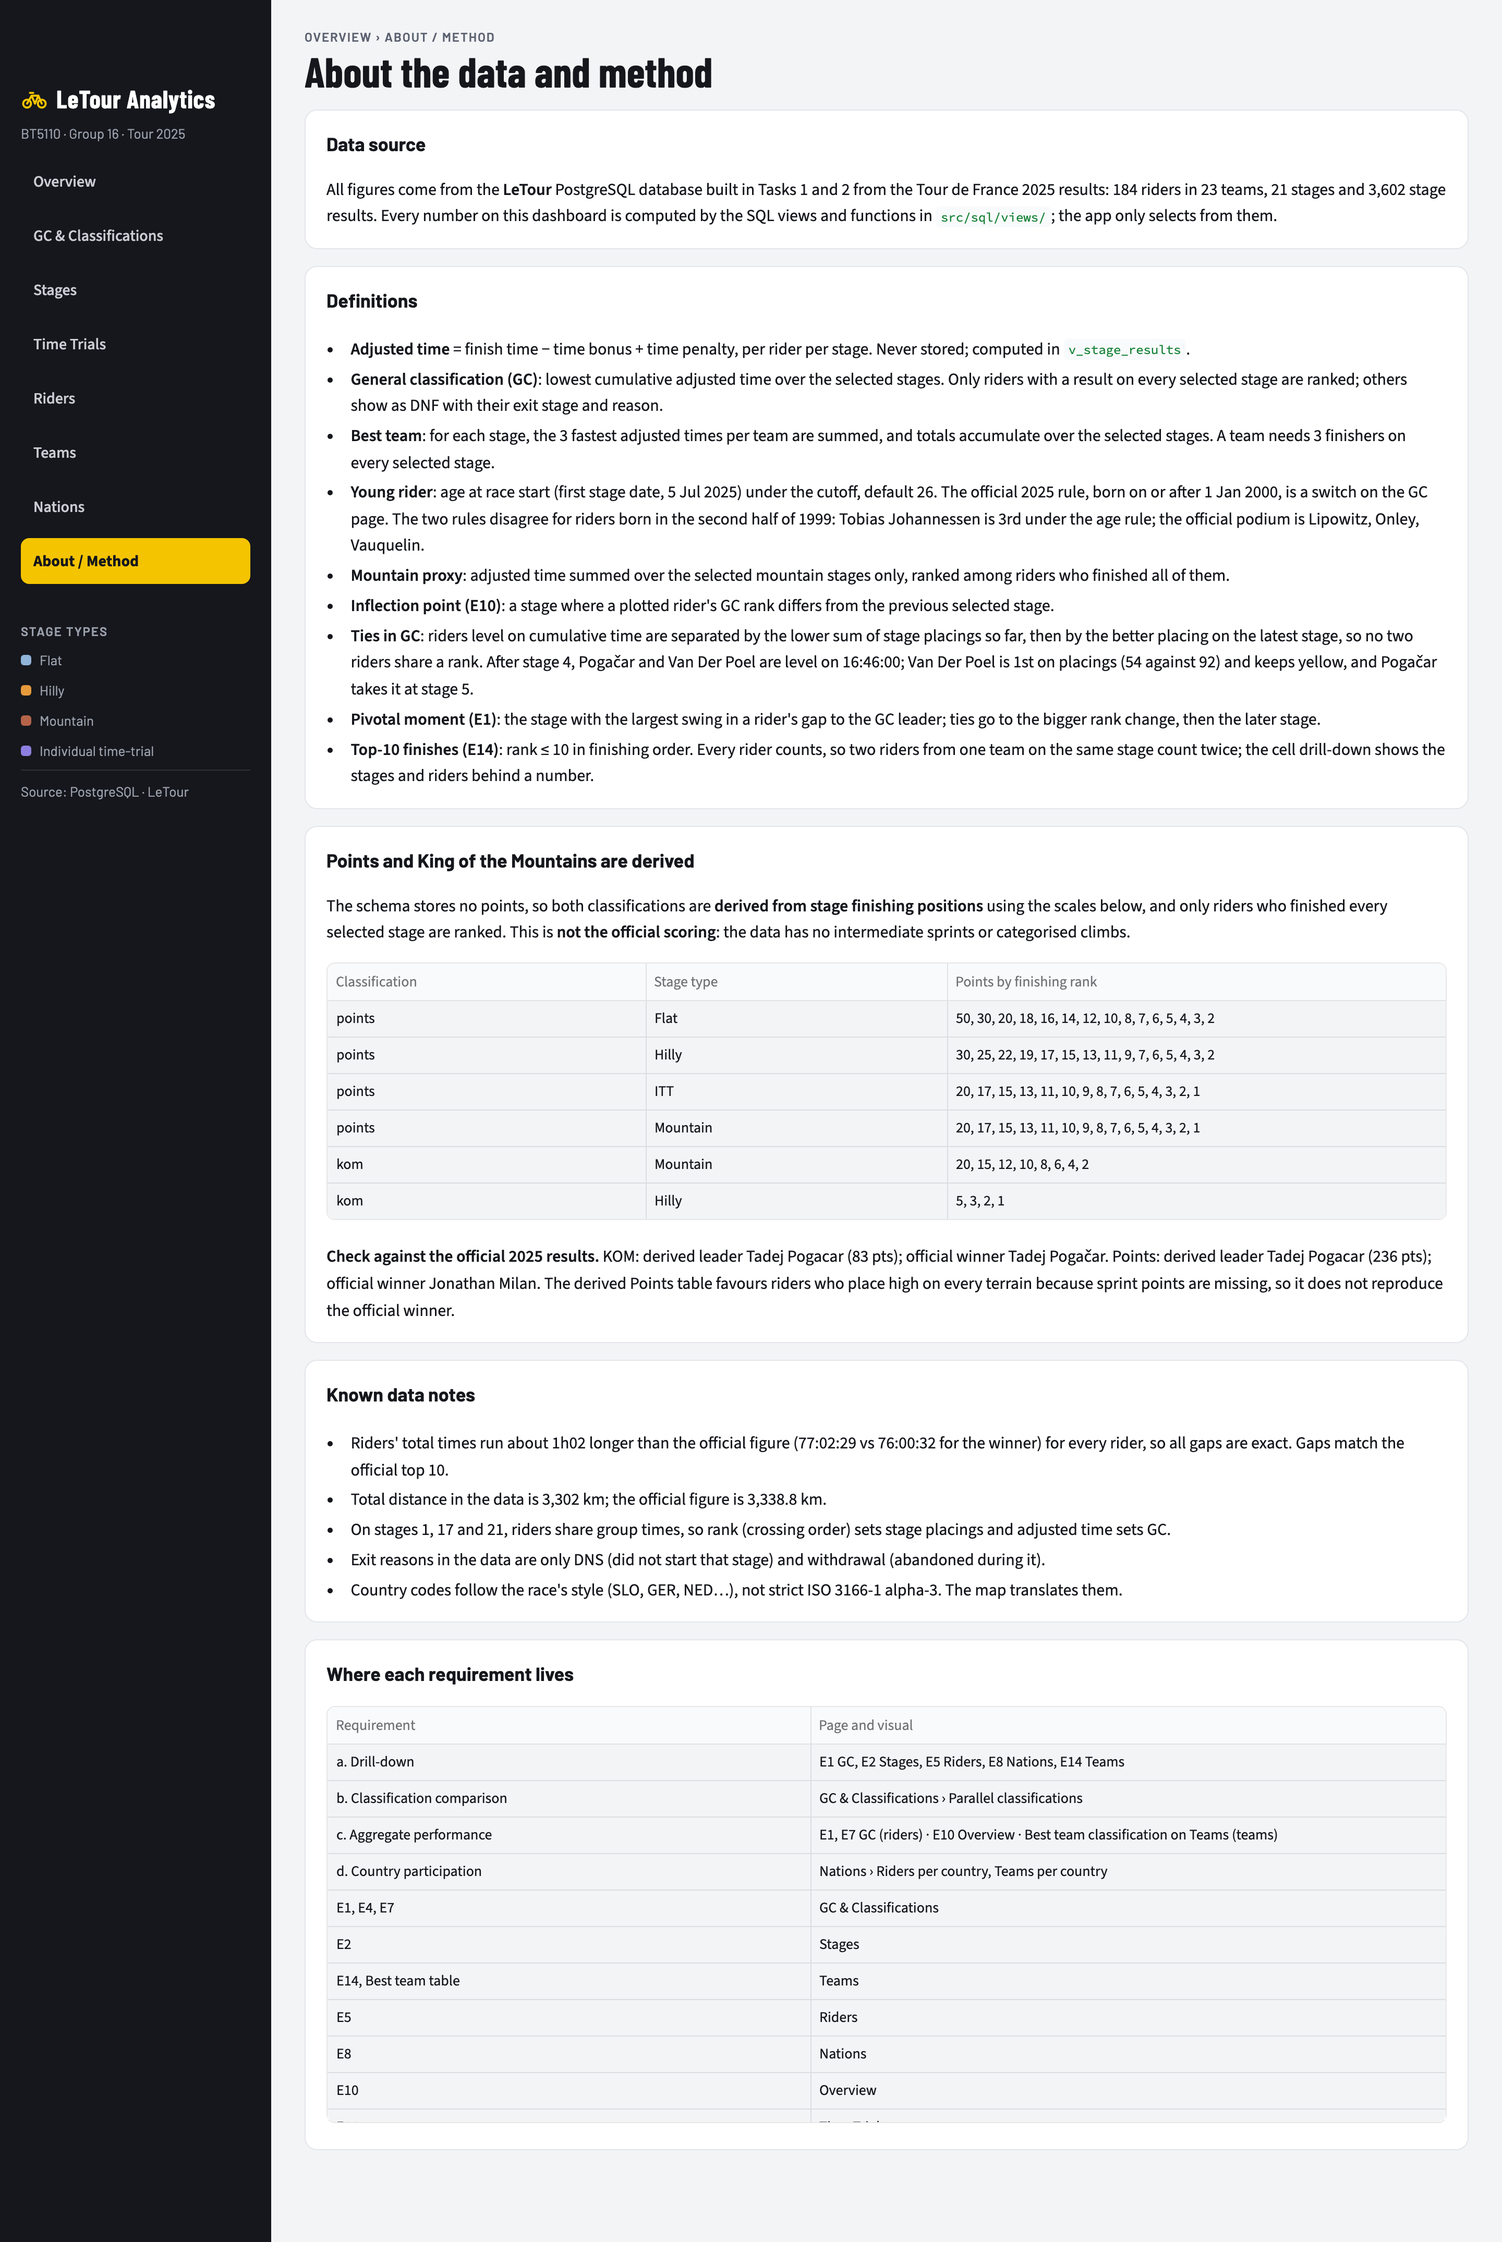
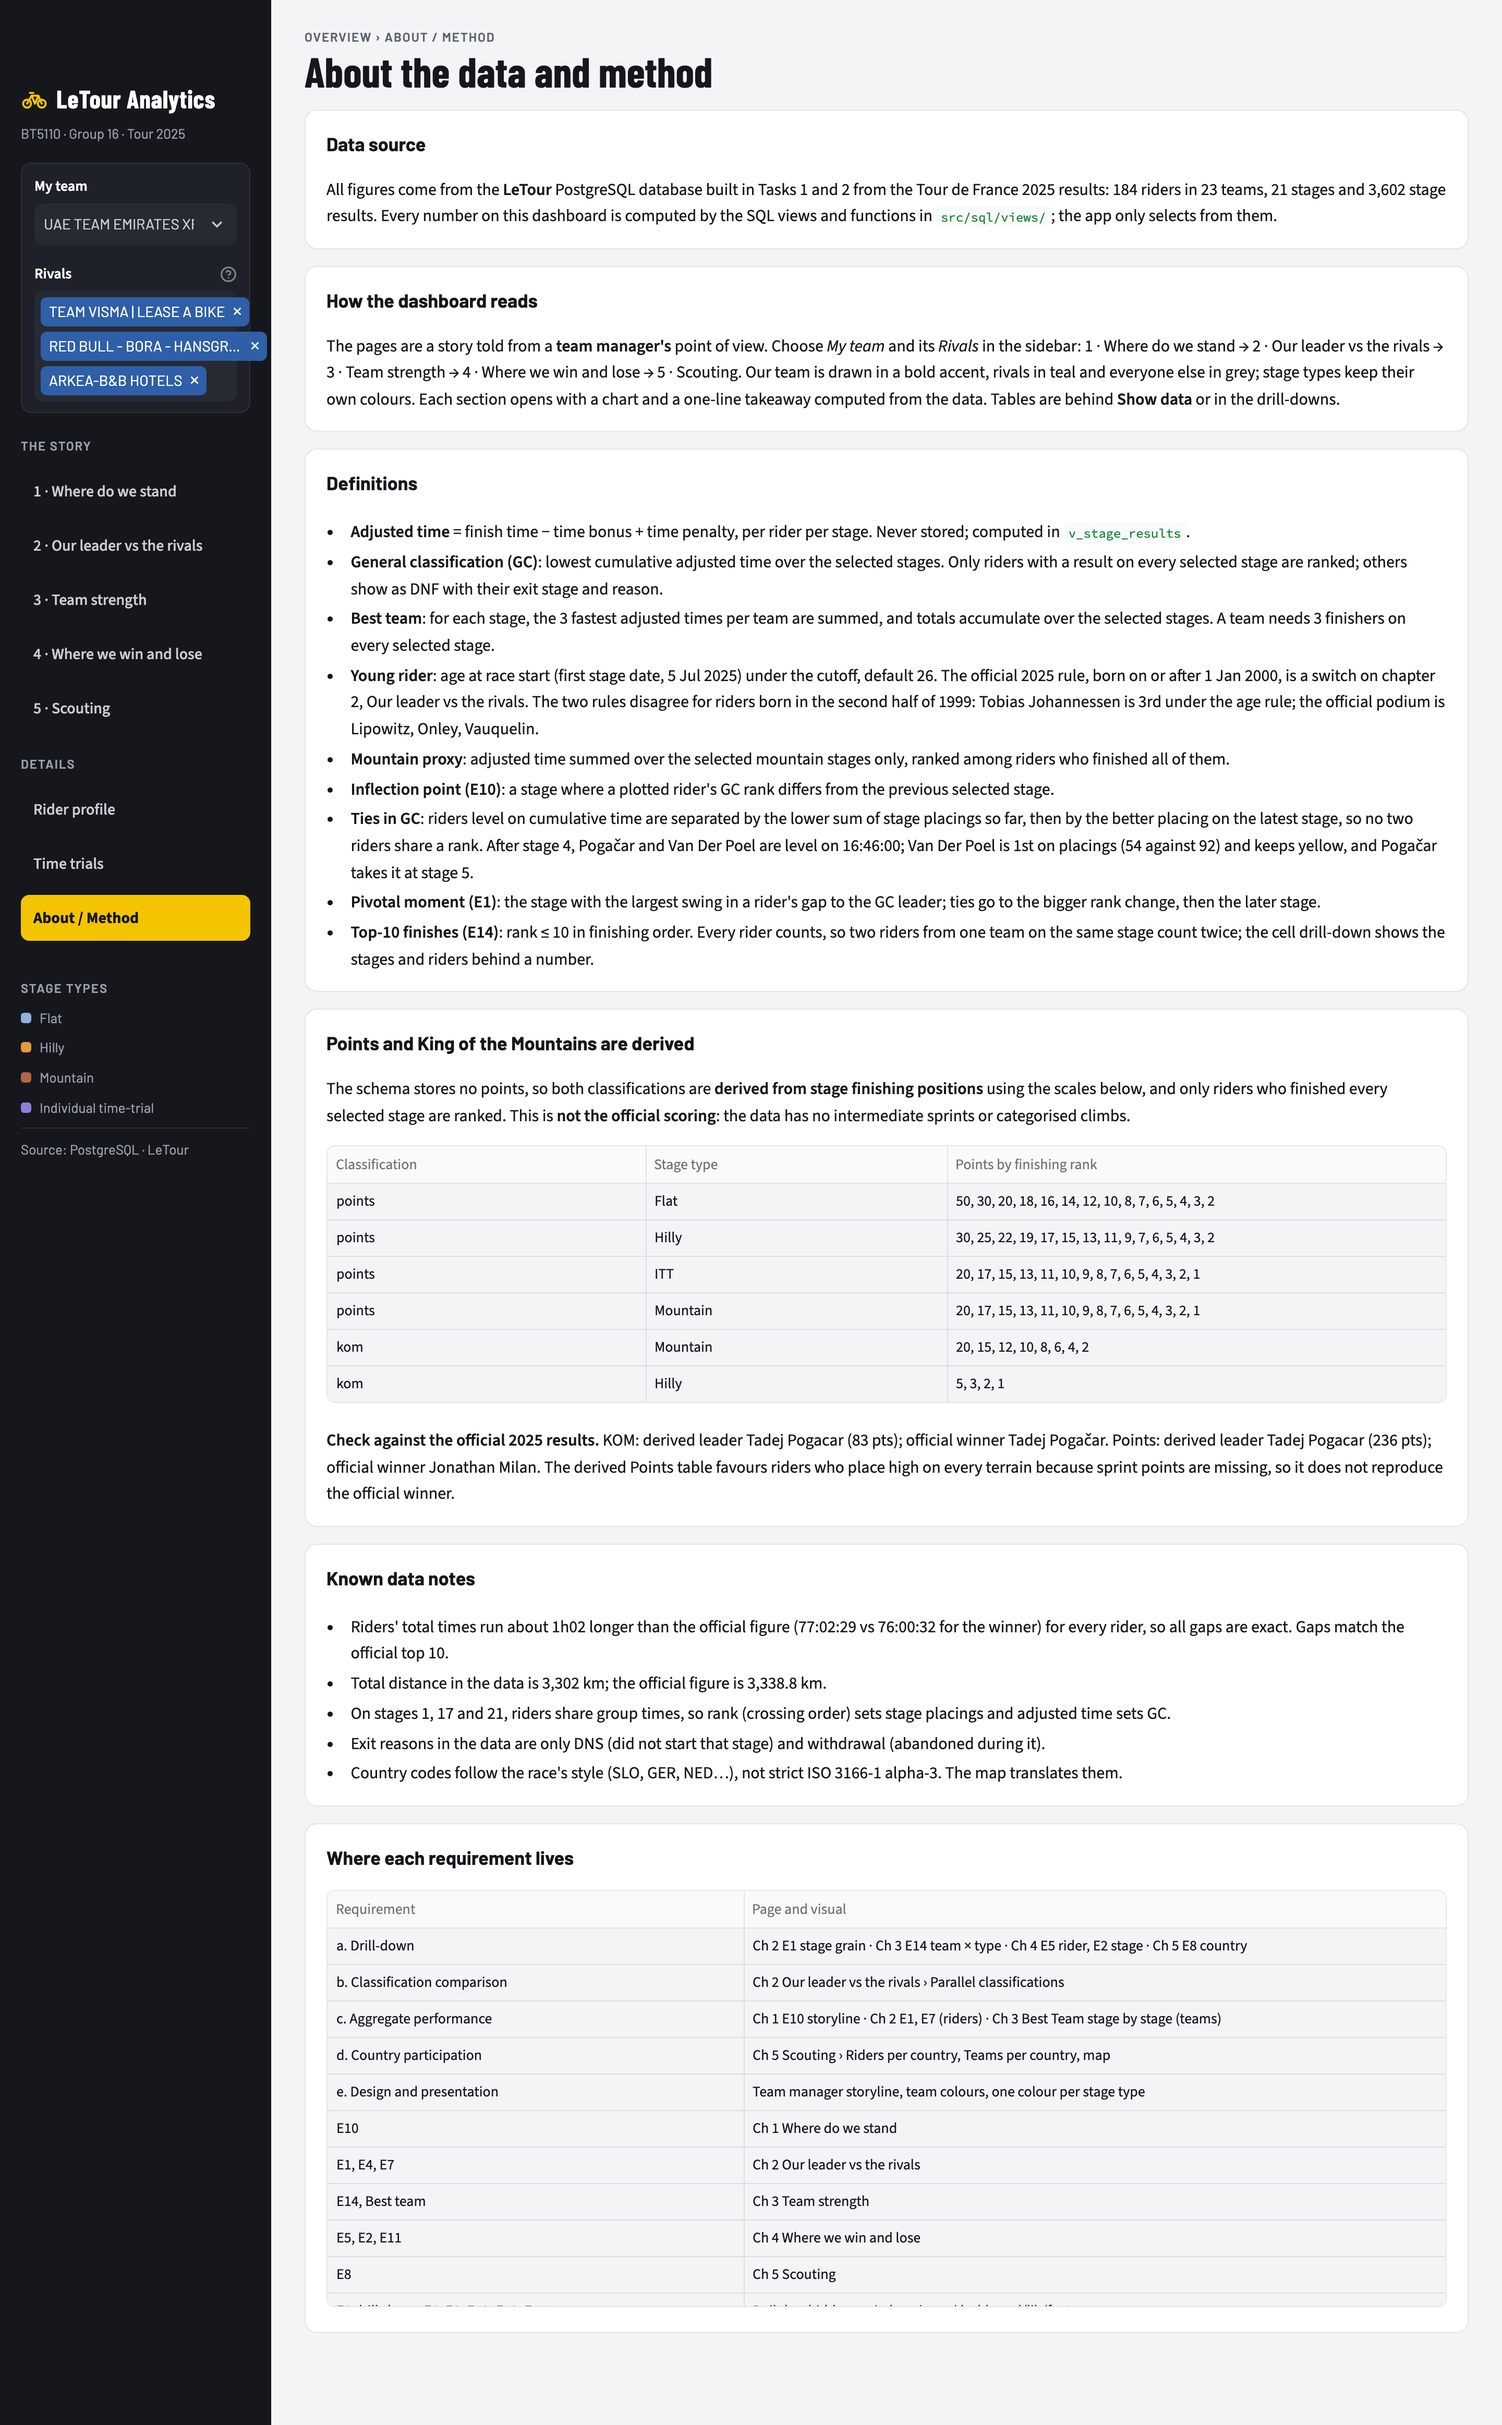
Regenerate dashboard screenshots in storyline order

diff --git a/src/screenshots.py b/src/screenshots.py
@@ -14,9 +14,10 @@ from playwright.sync_api import sync_playwright
 
 ROOT = Path(__file__).resolve().parent.parent
 OUT = ROOT / "docs" / "task3" / "app_screenshots"
+# In storyline order: the five chapters, then the detail pages
 PAGES = [
-    ("1_overview", ""), ("2_gc_classifications", "gc"), ("3_stages", "stages"), ("4_time_trials", "time_trials"),
-    ("5_riders", "riders"), ("6_teams", "teams"), ("7_nations", "nations"), ("8_about", "about"),
+    ("1_where_we_stand", ""), ("2_leader_vs_rivals", "gc"), ("3_team_strength", "teams"), ("4_where_we_win_and_lose", "stages"),
+    ("5_scouting", "nations"), ("6_rider_profile", "riders"), ("7_time_trials", "time_trials"), ("8_about", "about"),
 ]
 WIDTH = 1440
 
